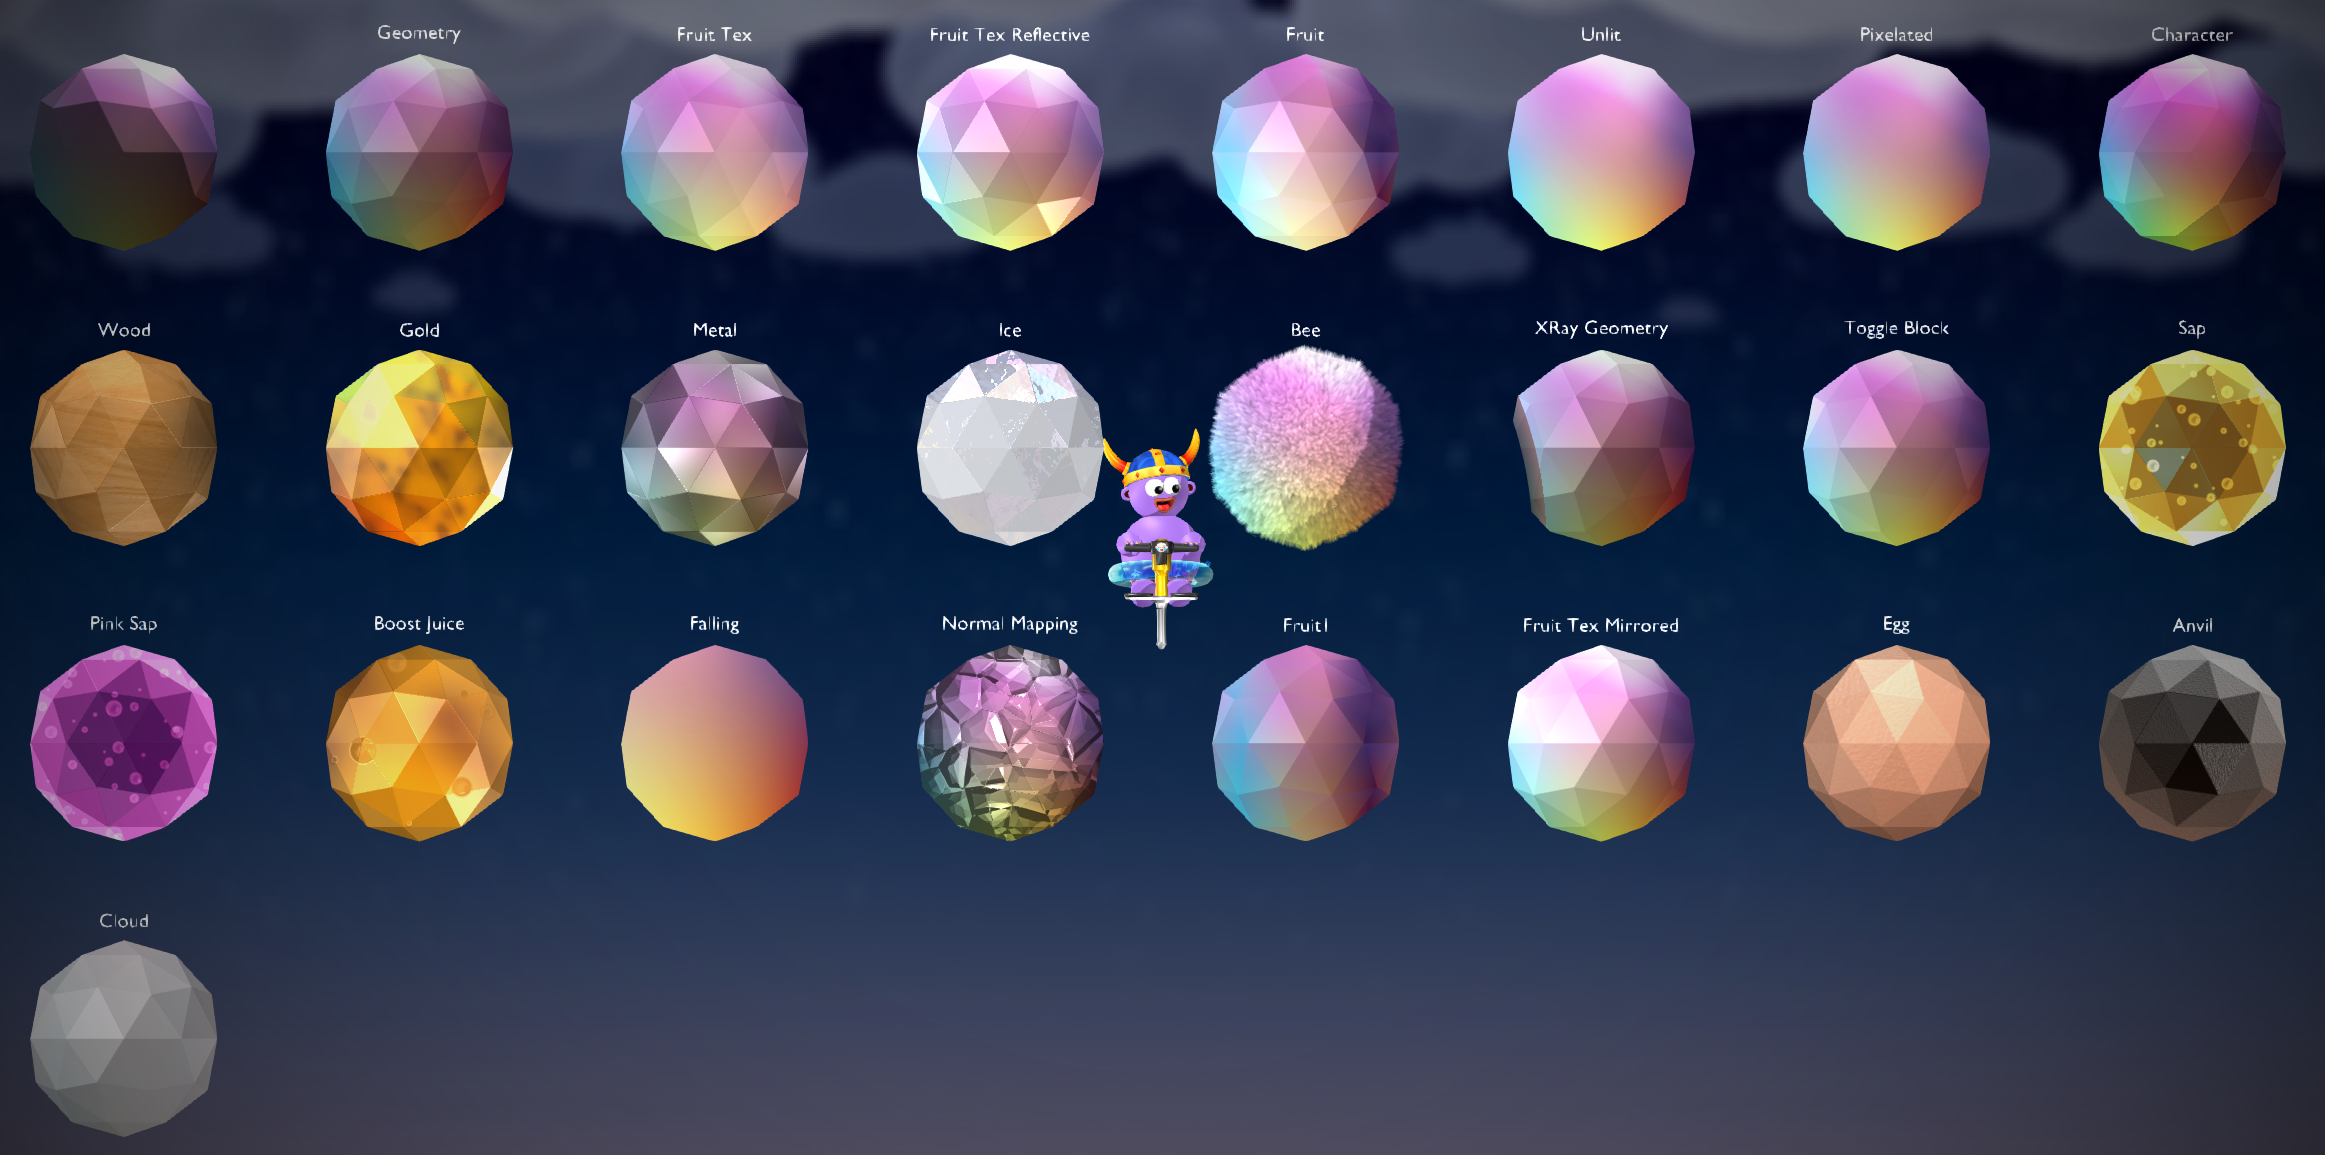
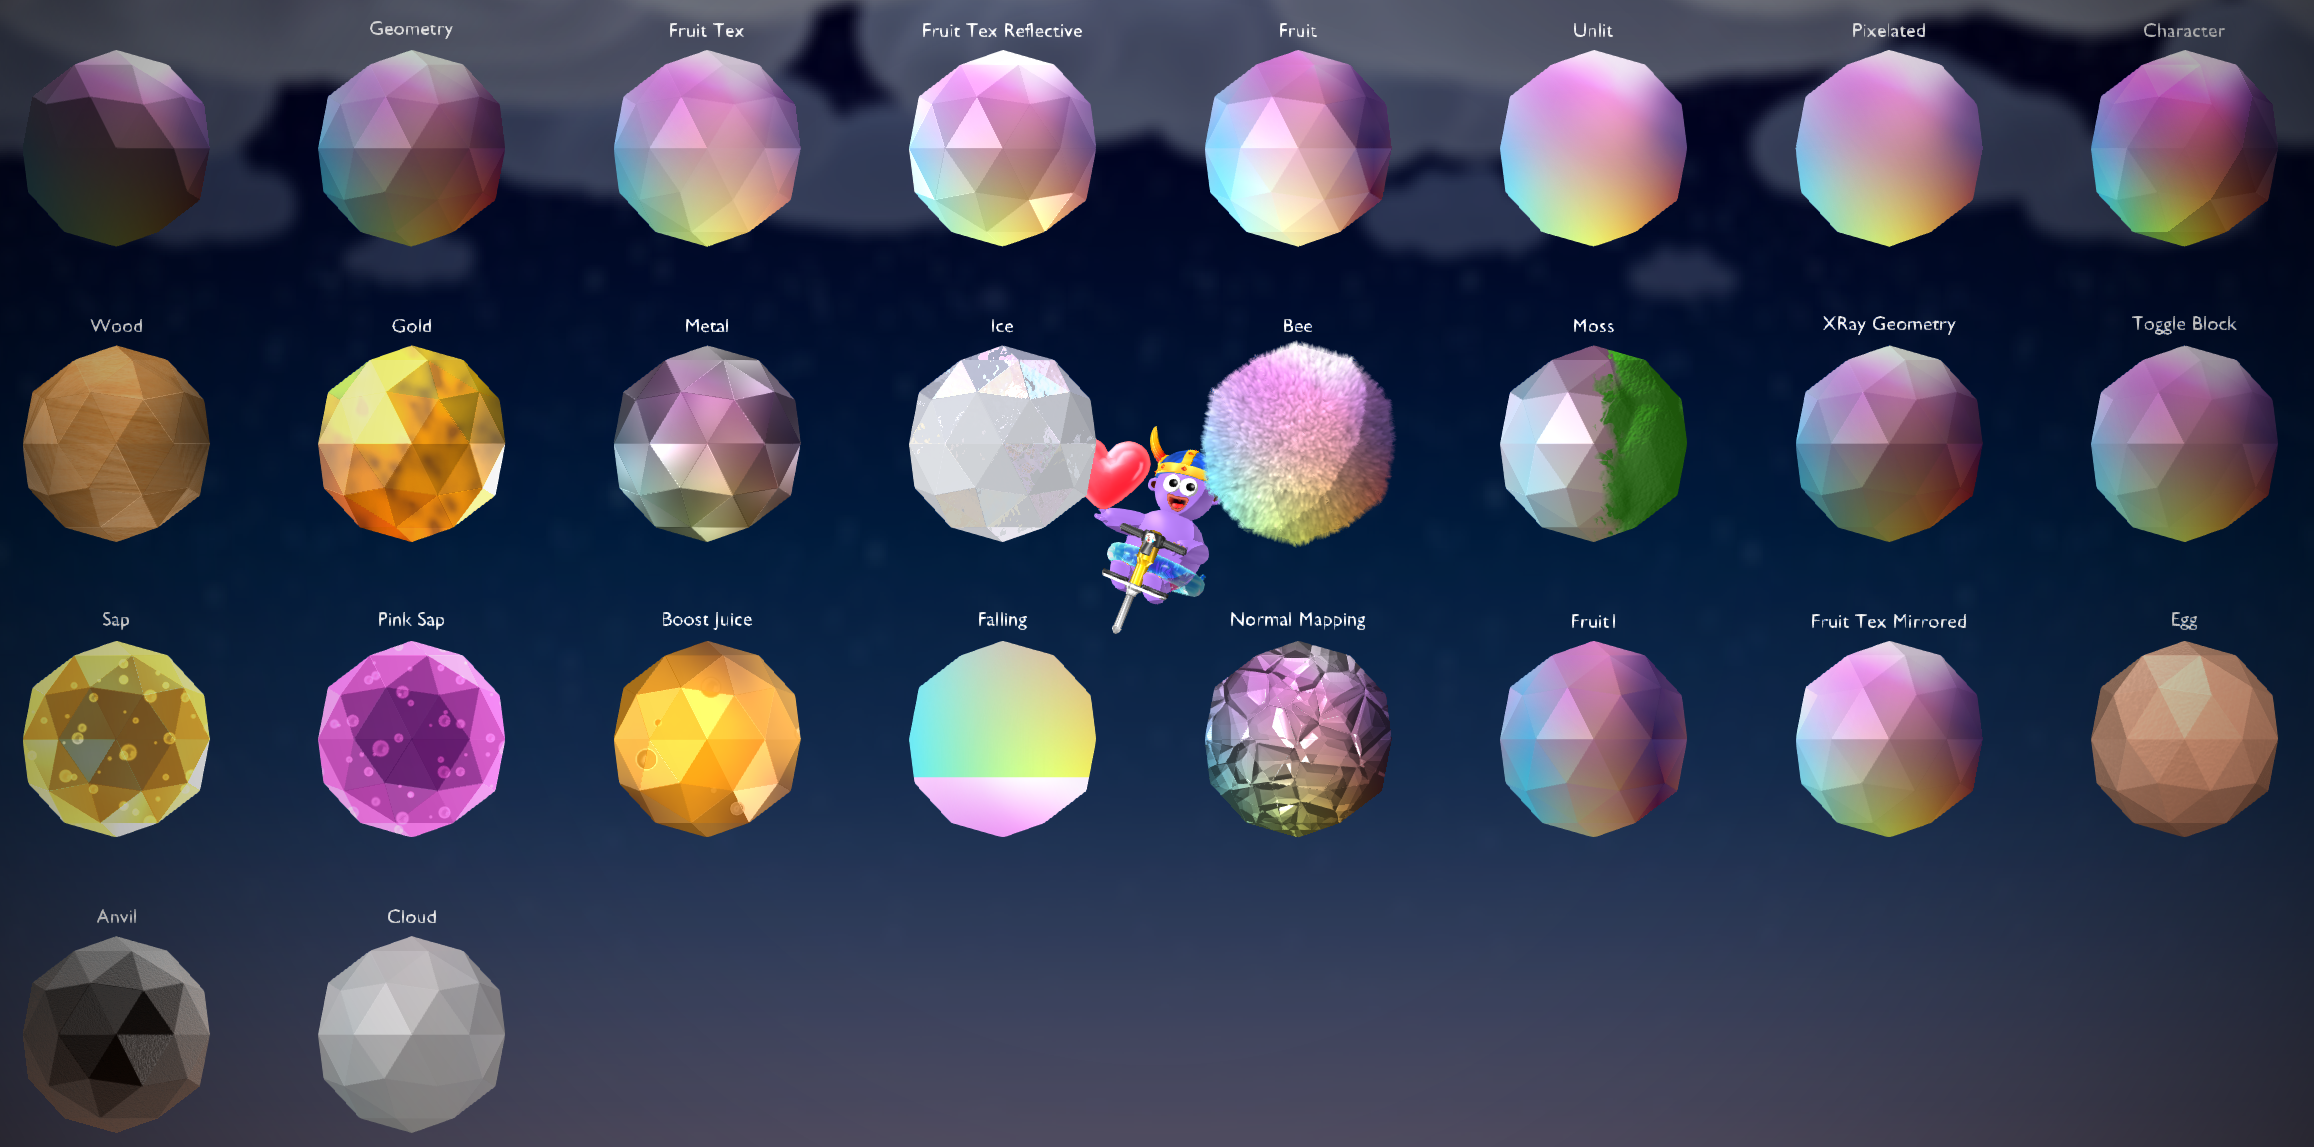
Add ability to add moss

diff --git a/export_import/mdl_exporter/mdl_exporter.py b/export_import/mdl_exporter/mdl_exporter.py
@@ -64,7 +64,7 @@ class MDLExporter:
                 uv_hash_map = {}
                 uv_idx_lookup = []
                 if has_skin:
-                    for uv in mesh.uv_layers[0].uv:
+                    for uv in [uv for uv_layer in mesh.uv_layers[:2] for uv in uv_layer.uv]:
                         uv = Vector((uv.vector.x, 1 - uv.vector.y))
                         uv.freeze()
                         idx = len(uv_hash_map)
@@ -74,6 +74,7 @@ class MDLExporter:
                             uv_hash_map[uv] = idx
                             self.uvs.append(uv)
                         uv_idx_lookup.append(idx)
+                self.has_second_uv_set = len(mesh.uv_layers) >= 2
 
                 loc = obj.matrix_world.translation
                 rot = obj.matrix_world.to_euler()
@@ -97,7 +98,7 @@ class MDLExporter:
                     for poly in mesh.polygons:
                         uvkeys[poly.index] = {}
                         for vert_idx in poly.vertices:
-                            uvkeys[poly.index][vert_idx] = uv_idx_lookup[uv_idx]
+                            uvkeys[poly.index][vert_idx] = uv_idx
                             uv_idx += 1
 
                 for i, tri in enumerate(mesh.loop_triangles):
@@ -112,8 +113,12 @@ class MDLExporter:
                         vert_indecies.append(obj_verts_index + tri.vertices[i])
                     if has_skin:
                         for vert_idx in tri.vertices:
-                            uv_indecies.append(uv_index + uvkeys[poly_idx][vert_idx])
-                        uv_indecies.reverse()
+                            uv_indecies.append(uv_index + uv_idx_lookup[uvkeys[poly_idx][vert_idx]])
+                        uv_indecies = uv_indecies[::-1]
+                        if self.has_second_uv_set:
+                            for vert_idx in tri.vertices:
+                                uv_indecies.append(uv_index + uv_idx_lookup[uvkeys[poly_idx][vert_idx] + len(uv_idx_lookup) // 2])
+                            uv_indecies[3:6] = uv_indecies[3:6][::-1]
                     self.tris.append((vert_indecies, uv_indecies, skin_idx))
 
                 obj_verts_index = len(self.verts)
@@ -173,13 +178,20 @@ class MDLExporter:
                 mdl.store_float_buffer(uv)  # vec2f
 
         for tri, uv, skin_idx in self.tris:
-            for i in range(3):
-                mdl.store_16(tri[i])
-            for i in range(3):
-                mdl.store_16(uv[i] if self.has_skin else 0)
-            mdl.store_32(skin_idx)
-            mdl.store_8s(0xFF, 6)
-            mdl.store_8s(0xFF, 4)
+            for tri_idx in tri[:3]:
+                mdl.store_16(tri_idx)
+            if self.has_skin:
+                for uv_idx in uv[:3]:
+                    mdl.store_16(uv_idx)
+                mdl.store_32(skin_idx)
+                if self.has_second_uv_set:
+                    for uv_idx in uv[3:6]:
+                        mdl.store_16(uv_idx)
+                    mdl.store_32(skin_idx)
+                else:
+                    mdl.store_8s(0, 10 * 1)
+            else:
+                mdl.store_8s(0, 10 * 2)
 
         for vert_idx in range(len(self.verts)):
             mdl.store_vec3f(self.verts[vert_idx])

diff --git a/docs/objects/entity.rst b/docs/objects/entity.rst
@@ -25,7 +25,7 @@ Below is an in-game image of the available materials, aswell as a list of their 
 .. figure:: materials.png
    :align: center
 
-   *In-game image of the available materials with a gradient texture applied. Note: the 'Sap', 'Pink Sap' and 'Boost Juice' materials have a bubbles texture instead. Also, the 'Normal Mapping' material is using a second texture, a normal map, and it will look different depedning on the normal map you are using.*
+   *In-game image of the available materials with a gradient texture applied. Note: the 'Sap', 'Pink Sap' and 'Boost Juice' materials have a bubbles texture instead. Also, the 'Normal Mapping' material is using a second texture, a normal map, and it will look different depedning on the normal map you are using. 'Moss' has a second UV Map that determines the location of the moss.*
 
 .. datatemplate:yaml:: ../../pogo_classes/materials.yaml
     :template: ./objects/materials.tmpl

diff --git a/docs/proposed_features.rst b/docs/proposed_features.rst
@@ -15,7 +15,6 @@ Here's a list of some things that I'd like to add to the add-on, if possible, bu
 - Add option for automatically making gravity regions have a gravity background.
 - Option to automatically add a "Teleport check split" at the start.
 - Add option to "Preload" a map by placing invisible versions of them at the start. In Custom Map X there was a problem with stutters because the models only loaded once you got close enough, so maybe this could fix it.
-- Add ability to add moss. (i saw this on the discord at some point)
 - Automatically bake Blender materials into textures.
 - Converting a curve to a wind path.
 - Making Custom Materials using Blender.

diff --git a/docs/moss.rst b/docs/moss.rst
@@ -1,0 +1,20 @@
+Moss
+====
+
+Adding moss is a bit confusing so heres a guide.
+
+First make any model you want, add a texture and then add the "Moss" material.
+
+Then go to the objects data properties and under "UV Maps", you can add another map.
+
+.. figure:: moss1.png
+
+Select the new UV Map and go to the UV editor. Here you can edit where the moss should appear.
+
+Moss will appear on any UV-cordinate that has an X-value greater than 1 (aka past the right edge of the bounds).
+
+.. figure:: moss2.png
+
+You can now use the first UV Map to change how your model is textured, and use the second UV Map to change where moss appears!
+
+.. figure:: moss3.png

diff --git a/docs/modeling.rst b/docs/modeling.rst
@@ -48,3 +48,4 @@ The model format that Pogostuck uses supports a maximum of 65k vertices.
   :hidden:
 
   sap_like_meshes
+  moss
